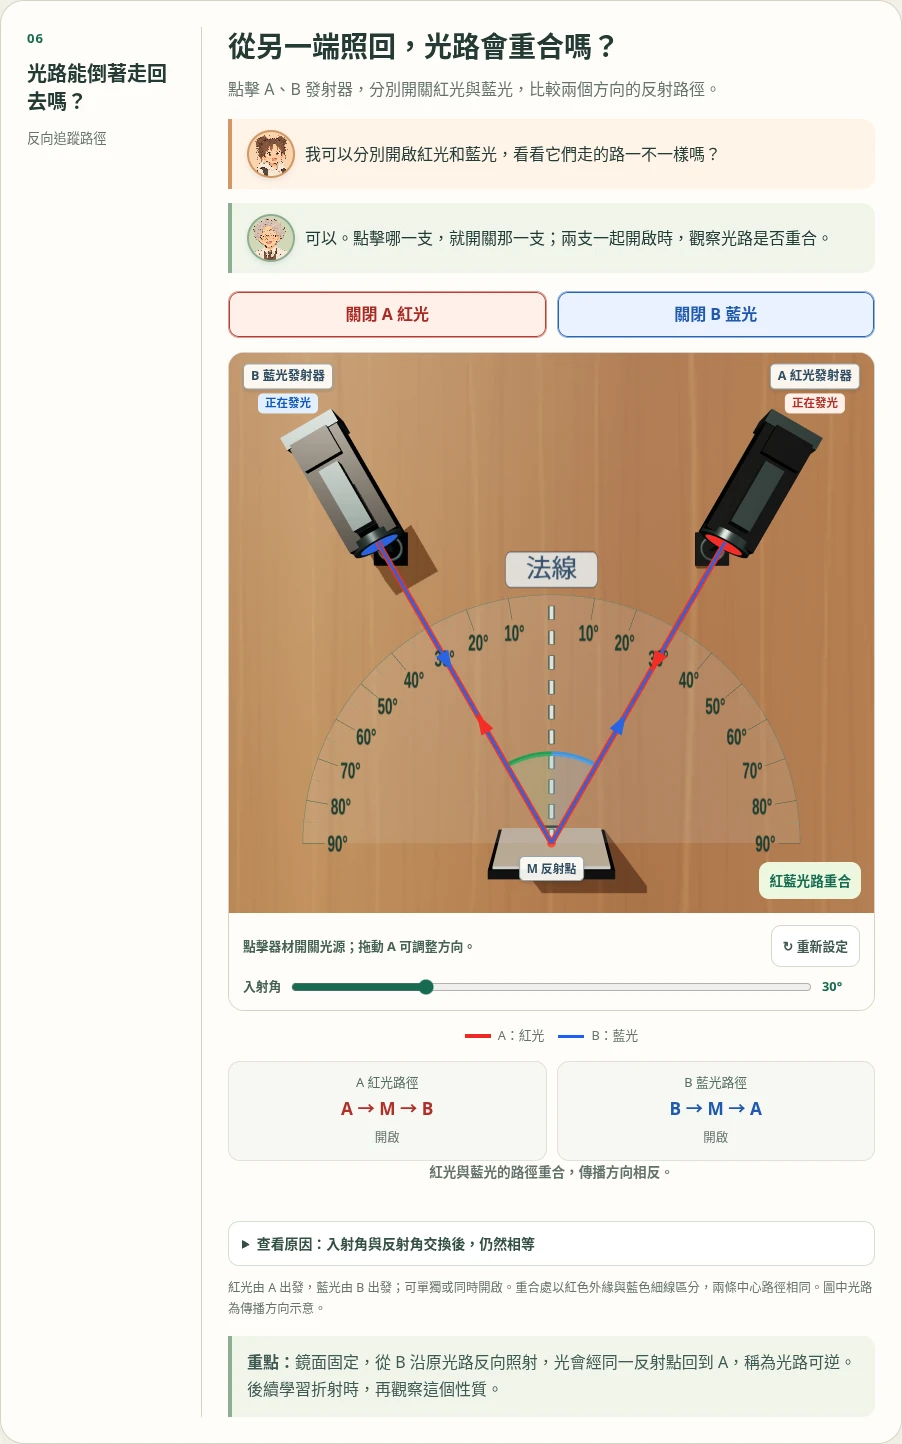
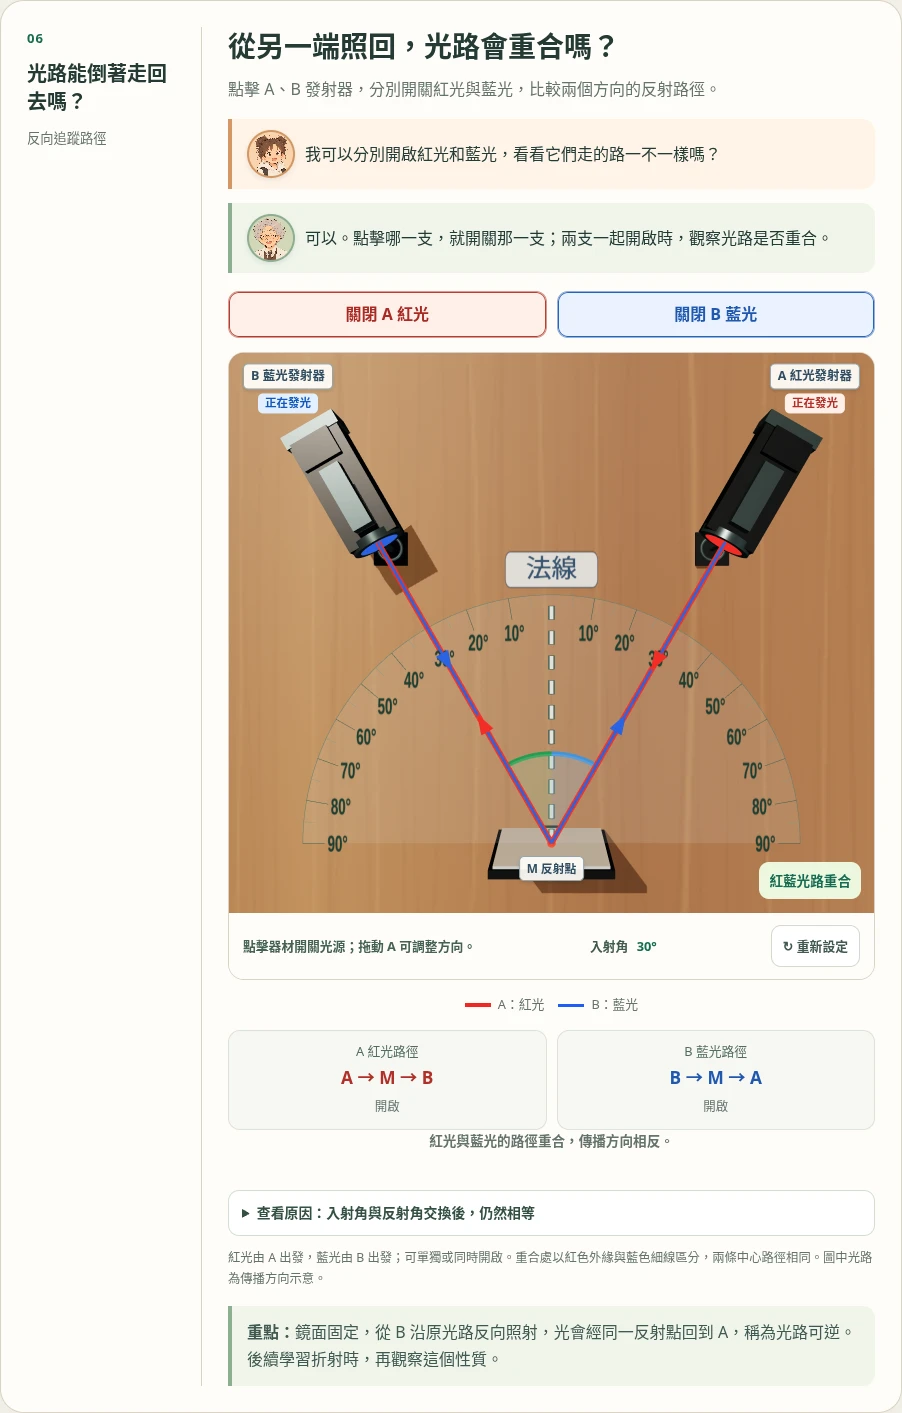
Use emitter dragging instead of an angle slider in the reversible light lab

diff --git a/units/1/parts/1.2/assets/reversible-light.css b/units/1/parts/1.2/assets/reversible-light.css
@@ -2,8 +2,8 @@
 .reverse-stage canvas[hidden],.reverse-device-label[hidden]{display:none}
 .reverse-device-label{position:absolute;z-index:2;display:grid;justify-items:center;gap:4px;transform:translate(-50%,-100%);pointer-events:none;white-space:nowrap;text-align:center;font-size:.78rem;line-height:1.4}.reverse-device-label strong{padding:3px 7px;border:1px solid #91a6b0;border-radius:5px;background:#fffdf8f0;color:#304d62;font-weight:800;box-shadow:0 2px 4px #0002}.reverse-device-label small{padding:2px 7px;border-radius:5px;background:#f9faf8ed;color:#405851;font-weight:750;font-size:.72rem}.reverse-device-label small[data-active=true]{color:#1457b9;background:#e2efff}.reverse-device-label.reverse-m-label{transform:translate(-50%,0);font-size:.74rem}
 .reverse-overlap{position:absolute;right:13px;bottom:14px;padding:7px 10px;border-radius:10px;background:#f0ffe7f0;color:#176b53;font-size:.85rem;font-weight:800;pointer-events:none}.reverse-overlap[hidden]{display:none}
-.reverse-lab-footer{display:flex;flex-wrap:wrap;align-items:center;justify-content:space-between;gap:9px;padding:12px 14px;background:#fffdf8;color:#456154;font-size:.8rem;font-weight:750}.reverse-lab-footer button{padding:7px 11px;min-height:42px;border:1px solid #d2d9cf;border-radius:10px;background:#fff;color:#405851}.reverse-angle-settings{flex:1 1 100%;display:flex;gap:8px;align-items:center;font-size:.8rem}.reverse-angle-settings[hidden]{display:none}.reverse-angle-settings input{width:100%;min-width:0;accent-color:#176b53}.reverse-angle-settings output{min-width:38px}
-.reverse-angle-settings>span{white-space:nowrap;flex:0 0 auto}
+.reverse-lab-footer{display:flex;flex-wrap:wrap;align-items:center;justify-content:space-between;gap:9px;padding:12px 14px;background:#fffdf8;color:#456154;font-size:.8rem;font-weight:750}.reverse-lab-footer button{padding:7px 11px;min-height:42px;border:1px solid #d2d9cf;border-radius:10px;background:#fff;color:#405851}
+.reverse-angle-readout{white-space:nowrap;color:#405b4e}.reverse-angle-readout output{margin-left:5px;color:#176b53;font-weight:850}
 .reverse-legend{display:flex;flex-wrap:wrap;justify-content:center;gap:14px;margin:14px 0;color:#64736d;font-size:.8rem}.reverse-legend span{display:inline-flex;align-items:center;gap:7px}.reverse-legend i{display:inline-block;width:26px;border-top:4px solid #9da6a7}.reverse-legend .reverse-blue{border-top:3px solid #205df5}.reverse-paths{display:grid;grid-template-columns:1fr 1fr;gap:10px}.reverse-paths>div{text-align:center;border:1px solid #dce2d8;border-radius:12px;padding:10px 6px;background:#f7f8f4}.reverse-paths small,.reverse-paths strong{display:block}.reverse-paths small{font-size:.8rem;color:#536c5f}.reverse-paths strong{font-size:1.08rem;color:#273c37}.reverse-state{min-height:3.2em;margin:8px 0 15px;text-align:center;color:#345a48;font-size:.85rem;font-weight:750;line-height:1.6}
 .reverse-reason{margin:12px 0;border:1px solid #d6dfd2;border-radius:11px;padding:10px 13px;background:#fff}.reverse-reason summary{cursor:pointer;font-weight:750;color:#344f43;font-size:.87rem}.reverse-reason p{margin:9px 0 0;font-size:.84rem;color:#53695c}.reverse-note{margin:10px 0;color:#6b7a71;font-size:.77rem}.reverse-fact{border-left:4px solid #8cae91;border-radius:0 12px 12px 0!important}
 .reverse-fallback{padding:18px;background:#f5f7ef}.reverse-fallback svg{width:100%;height:auto}.reverse-fallback[hidden]{display:none}

diff --git a/units/1/parts/1.2/index.html b/units/1/parts/1.2/index.html
@@ -102,7 +102,7 @@
     @media(max-width:460px){#card-03 .mirror-stable-controls{display:grid;grid-template-columns:1.1fr 1.6fr .7fr;gap:6px}#toggle-image-object,#toggle-image-rays,#reset-image-activity{min-width:0;min-height:60px;padding-inline:6px;font-size:.85rem}#card-03 .mirror-step-explanation{min-height:230px}}
   </style>
   <link rel="stylesheet" href="assets/curved-mirrors.css?v=1">
-  <link rel="stylesheet" href="assets/reversible-light.css?v=2">
+  <link rel="stylesheet" href="assets/reversible-light.css?v=3">
 </head>
 <body>
   <header class="shell masthead">
@@ -376,7 +376,7 @@
                 <div class="reverse-overlap" id="reverse-overlap" hidden>紅藍光路重合</div>
                 <div class="reverse-fallback" id="reverse-fallback" hidden><p id="reverse-fallback-message"></p><svg id="reverse-fallback-svg" viewBox="0 0 400 325" role="img" aria-label="光路可逆的替代俯視圖"></svg></div>
               </div>
-              <div class="reverse-lab-footer"><span id="reverse-lock-note">點擊器材開關光源；拖動 A 可調整方向。</span><button type="button" id="reverse-reset">↻ 重新設定</button><label class="reverse-angle-settings" for="reverse-angle"><span>入射角</span><input id="reverse-angle" type="range" min="20" max="60" step="1" value="30" aria-label="調整兩支光源的對應角度"><output id="reverse-angle-value" for="reverse-angle">30°</output></label></div>
+              <div class="reverse-lab-footer"><span id="reverse-lock-note">點擊器材開關光源；拖動 A 可調整方向。</span><span class="reverse-angle-readout">入射角 <output id="reverse-angle-value" aria-label="目前入射角">30°</output></span><button type="button" id="reverse-reset">↻ 重新設定</button></div>
             </div>
             <div class="reverse-legend"><span><i class="reverse-red"></i>A：紅光</span><span><i class="reverse-blue"></i>B：藍光</span></div>
             <div class="reverse-paths"><div><small>A 紅光路徑</small><strong>A → M → B</strong><span id="reverse-path-a-status">已關閉</span></div><div><small>B 藍光路徑</small><strong>B → M → A</strong><span id="reverse-path-b-status">已關閉</span></div></div>
@@ -437,6 +437,6 @@
   <script type="module" src="assets/mirror-image.js?v=2"></script>
   <script type="module" src="assets/reflection-3d.js?v=45"></script>
   <script type="module" src="assets/laser-reflection.js?v=36"></script>
-  <script type="module" src="assets/reversible-light.js?v=2"></script>
+  <script type="module" src="assets/reversible-light.js?v=3"></script>
 </body>
 </html>

diff --git a/units/1/parts/1.2/assets/reversible-light.js b/units/1/parts/1.2/assets/reversible-light.js
@@ -4,7 +4,6 @@ import { reciprocalPath } from './planar-reflection.mjs';
 
 const section = document.querySelector('#card-06');
 const canvas = section.querySelector('#reverse-scene');
-const input = section.querySelector('#reverse-angle');
 const prior = document.querySelector('#laser-reflection-scene');
 const clamp = n => Math.round(Math.max(20, Math.min(60, n)));
 let degrees = clamp(Number(prior.dataset.angle || 30));
@@ -110,7 +109,6 @@ function updateUI() {
   section.dataset.lightA = lights.a ? 'on' : 'off'; section.dataset.lightB = lights.b ? 'on' : 'off';
   section.dataset.reverseAngle = String(degrees);
   section.dataset.reverseModel = JSON.stringify(model);
-  input.value = String(degrees);
   section.querySelector('#reverse-angle-value').textContent = `${degrees}°`;
   canvas.setAttribute('aria-valuenow', String(degrees));
   canvas.setAttribute('aria-valuetext', `入射角 ${degrees} 度；A 紅光${lights.a ? '開啟' : '關閉'}，B 藍光${lights.b ? '開啟' : '關閉'}`);
@@ -129,7 +127,6 @@ function updateUI() {
 function refresh() { updateUI(); reframe(); draw(); }
 function toggle(key) { lights[key] = !lights[key]; started = true; refresh(); }
 function setAngle(value) { degrees = clamp(value); started = true; model = reciprocalPath(degrees); refresh(); }
-input.addEventListener('input', () => setAngle(Number(input.value)));
 for (const key of ['a', 'b']) section.querySelector(`#reverse-toggle-${key}`).addEventListener('click', () => toggle(key));
 section.querySelector('#reverse-reset').addEventListener('click', () => { lights = { a: false, b: false }; started = true; refresh(); });
 prior.addEventListener('laser-angle-change', event => { if (!started) { degrees = clamp(event.detail.degrees); model = reciprocalPath(degrees); refresh(); } });

diff --git a/units/1/parts/1.2/storyline.md b/units/1/parts/1.2/storyline.md
@@ -95,3 +95,7 @@
 使用者進一步指示兩支光源採不同顏色，點擊各自決定是否發光。此指示取代先前的三步記錄／描線流程：初始兩支都關閉，直接點擊 A 開關紅光、點擊 B 開關藍光，四種組合都能操作；上方原生按鈕提供同等鍵盤與觸控替代。拖曳 A 與點擊以6px移動門檻區分，拖動不切換光源；調整角度保留兩支開關狀態，重設只關閉兩支。
 
 兩光可同時開啟，使用相同中心路徑，紅光較寬、藍光較細，方向箭頭錯開於同一線上；不是把光路平移。各自光源與整段反射光維持同色，紅色沿 A→M→B，藍色沿 B→M→A。灰色紀錄與動畫步驟已移除。仍沿用第二區器材與反射模型，原理及法線說明保留。
+
+### 第六區移除角度滑桿（2026-10-27）
+
+依使用者指示移除第六區底部的入射角滑桿，改由上方 A 發射器的實際拖曳調整角度；保留即時角度讀值與畫面聚焦後的方向鍵操作。紅藍光各自點擊開關維持，拖曳仍不觸發開關。測試改用器材拖曳及鍵盤設定條件，並加入滑桿不存在與觸控拖曳的檢查。

diff --git a/docs/reviews/unit-1.2-card06/review.md b/docs/reviews/unit-1.2-card06/review.md
@@ -59,3 +59,9 @@ CHROMIUM_PATH=/usr/bin/chromium node --test --test-concurrency=1 tests/unit-1.2-
 最新畫面：[桌面](direct-controls-desktop.webp)、[窄螢幕](direct-controls-mobile.webp)。舊三步完成圖不代表現行操作。
 
 本次獨立開關修訂的檢查結果：新版第六區9項、既有第三至五區回歸14項，合計23項通過、0失敗（含外層測試）。語法與diff空白檢查通過；已檢視紅光、藍光、雙開及關閉狀態的桌面截圖，以及雙開窄螢幕畫面。
+
+### 後續：角度由器材拖動調整
+
+使用者要求移除底部角度bar。第六區已刪除range輸入及其監聽，底部只保留入射角讀值；實際拖曳A為滑鼠／觸控的調角操作，方向鍵保留作鍵盤等效方式。檢查新增第六區沒有range輸入、拖曳後讀值同步，以及真實觸控拖動A不切換光源。
+
+本次針對第六區的9項檢查全部通過，包含滑鼠器材拖曳、真實觸控拖曳、角度讀值、紅藍獨立開關及無水平溢位；已檢視移除滑桿後的桌面與窄螢幕截圖。

diff --git a/tests/README.md b/tests/README.md
@@ -73,6 +73,8 @@ CHROMIUM_PATH=/usr/bin/chromium node --test --test-concurrency=1 tests/unit-1.2-
 
 第六區檢查41組光路、共用場景及第二區實際器材拖曳回歸；最新操作依使用者指示改為雙光源獨立開關，檢查實際器材固定座標連點四種組合、紅藍及同開的畫面色彩像素、拖曳不切換、取消手勢、背景點擊、鍵盤、五種寬度、真實觸控及SVG器材點擊。原三步記錄與分段動畫測試已由上述行為取代。與既有第三至五區測試一起執行，另以實際截圖檢視畫面。
 
+第六區已依使用者要求移除角度滑桿。測試透過器材拖曳與鍵盤調角，檢查range輸入不存在、讀值同步，並以真實觸控序列驗證拖曳不切換光源。
+
 ## 5.1 第二區塊：加冰塊與加熱水
 
 ```sh

diff --git a/units/1/parts/1.2/assets/README.md b/units/1/parts/1.2/assets/README.md
@@ -24,3 +24,5 @@
 ### 第六區後續獨立開關
 
 依使用者新指示，第六區現為直接點擊兩支器材，各自開關 A 紅光／B 藍光，可單獨或同時開啟。移除三步記錄與動畫；拖動 A 調角不會誤觸開關。重合光路使用紅色外緣與藍色細線，中心幾何完全相同；材質同屬透明渲染佇列，避免紅光遮住藍光。SVG 替代器材也可點擊，原生按鈕與鍵盤提供相同操作。
+
+使用者後續要求角度由上方器材拖動調整，已移除第六區range控制與監聽，只保留即時讀值；滑鼠／觸控拖動A及方向鍵均更新同一光路模型，點擊仍僅切換光源。
